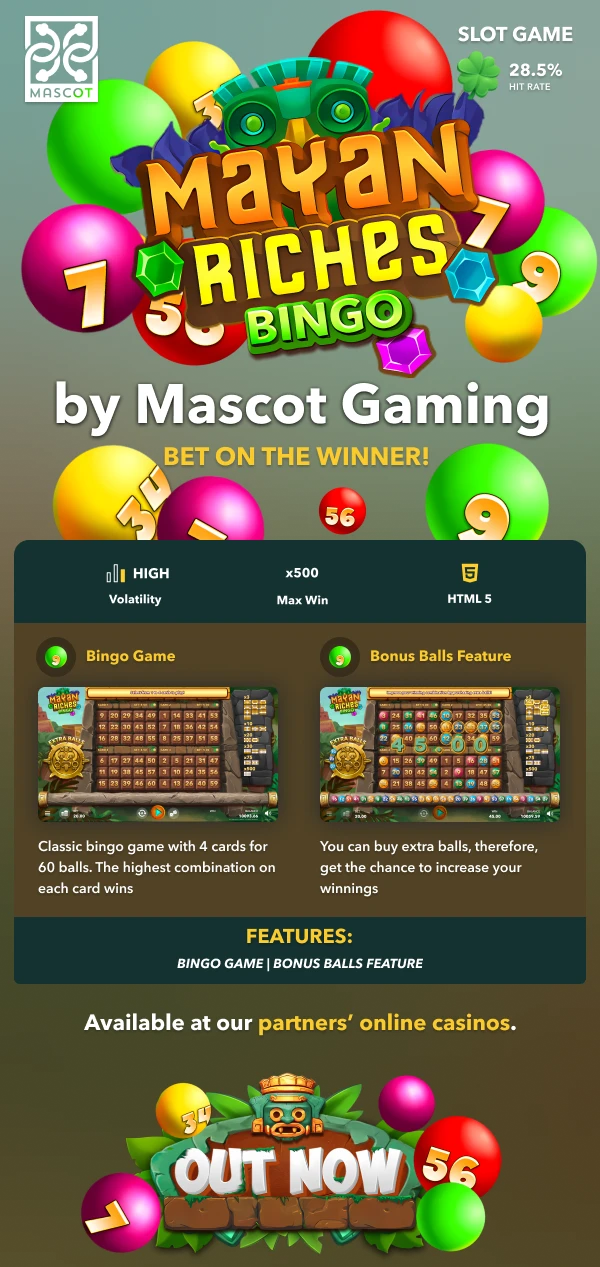
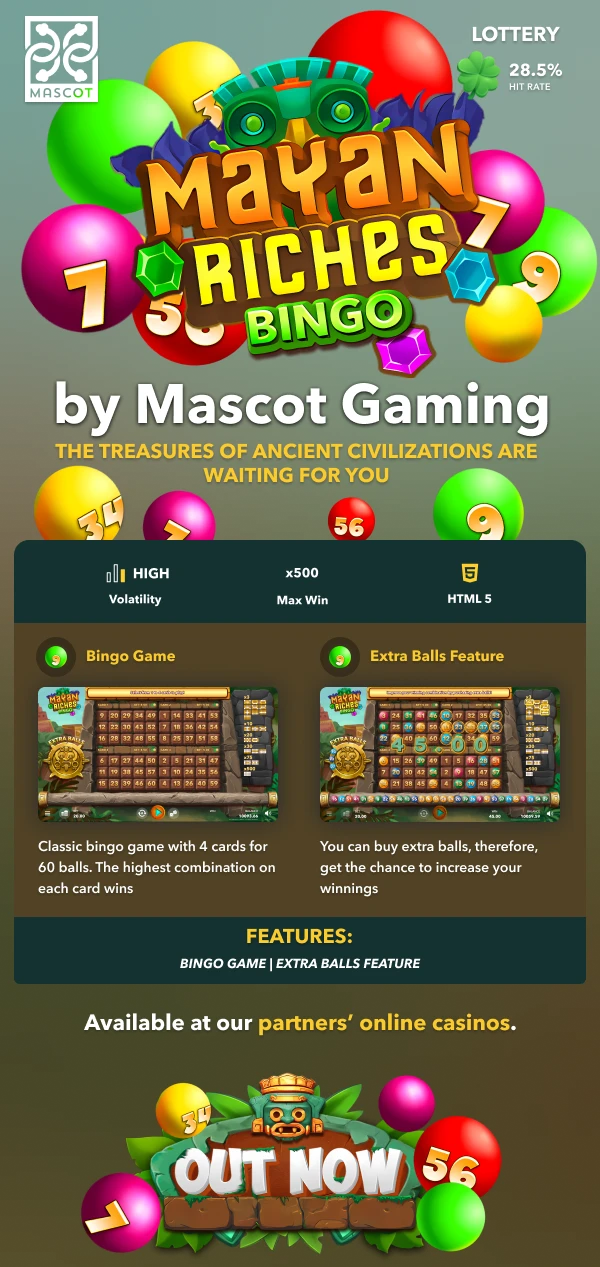
image and code changes

diff --git a/index.html b/index.html
@@ -181,7 +181,7 @@
                 <td style=" padding:0px 0px 0px 0px;">
                   <a href="https://play.mascot.games/mayan-riches-bingo" target="_blank"
                     style="display: block; width: 100%; text-decoration: none;">
-                    <img src="https://i.ibb.co/Fqw88RB/main.webp" alt="Hero Section With All Information"
+                    <img src="https://i.ibb.co/n0myRYT/main.webp" alt="Hero Section With All Information"
                       title="Masot Gaming Mayan Riches Bingo!"
                       style="width: 100%; max-width: 600px; height: auto; display: block; padding: 0; margin: 0;" />
                   </a>

diff --git a/mayan_riches_bingo.html b/mayan_riches_bingo.html
@@ -181,7 +181,7 @@
                 <td style=" padding:0px 0px 0px 0px;">
                   <a href="https://play.mascot.games/mayan-riches-bingo" target="_blank"
                     style="display: block; width: 100%; text-decoration: none;">
-                    <img src="https://i.ibb.co/Fqw88RB/main.webp" alt="Hero Section With All Information"
+                    <img src="https://i.ibb.co/n0myRYT/main.webp" alt="Hero Section With All Information"
                       title="Masot Gaming Mayan Riches Bingo!"
                       style="width: 100%; max-width: 600px; height: auto; display: block; padding: 0; margin: 0;" />
                   </a>
